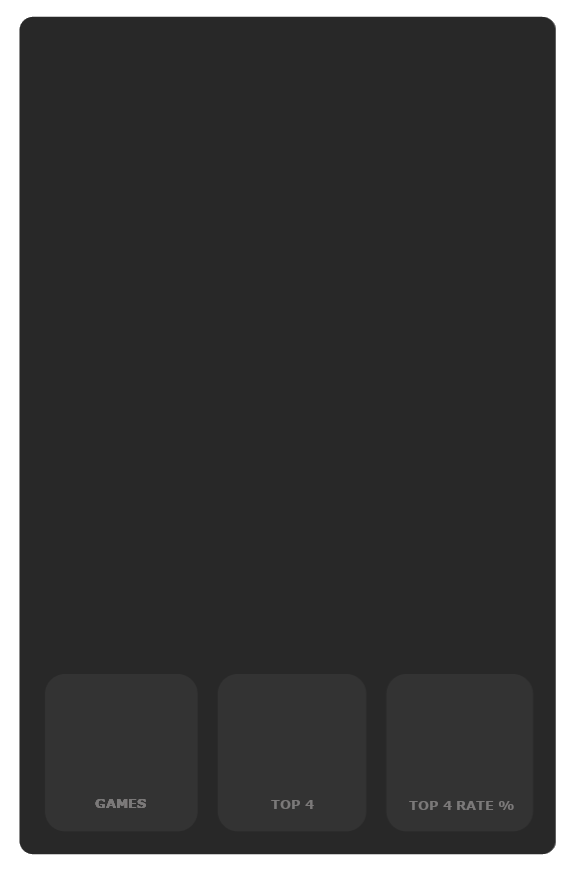
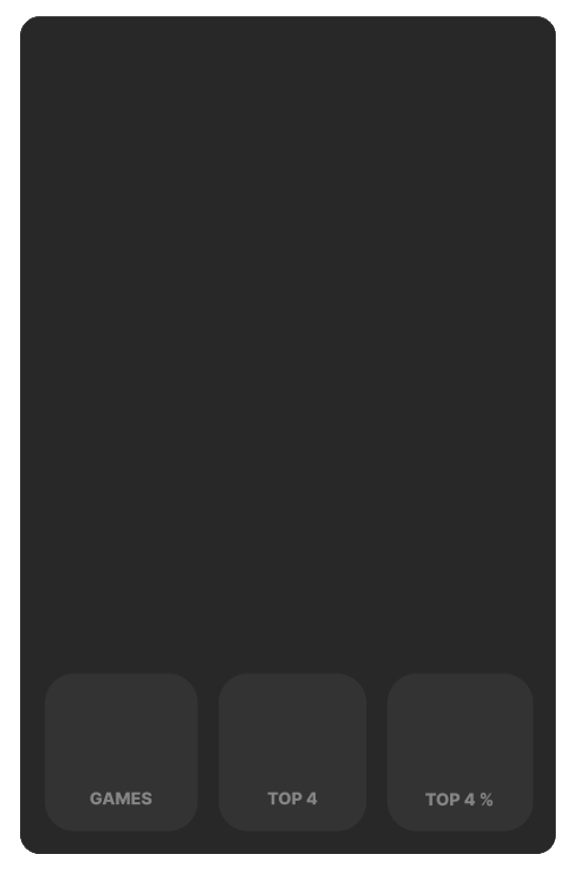
fix: round number & card template

diff --git a/main.py b/main.py
@@ -112,8 +112,6 @@ async def image(interaction, member: discord.Member):
     profile_data = 'https://euw1.api.riotgames.com/tft/league/v1/entries/by-summoner/' + id + '?api_key=' + riot_key
     res = requests.get(profile_data, timeout=127)
     user_profile = res.json()
-    print(user_data[member.id]["riot_name"])
-    print(user_profile)
     for profile in user_profile:
         if profile["queueType"] == "RANKED_TFT":
             ranked_profile = profile
@@ -123,7 +121,7 @@ async def image(interaction, member: discord.Member):
         return
     totalGame = str(ranked_profile['wins'] + ranked_profile['losses'])
     winGame = str(ranked_profile['wins'])
-    topGame = str(ranked_profile['wins'] / int(totalGame) * 100)
+    topGame = str(round(ranked_profile['wins'] / int(totalGame) * 100, 2))
     label = ImageFont.truetype("./assets/fonts/inter.ttf", 38)
     userfont = ImageFont.truetype("./assets/fonts/inter.ttf", 50)
     descfont = ImageFont.truetype("./assets/fonts/inter.ttf", 42)
@@ -334,7 +332,6 @@ async def game(interaction, member: discord.Member):
                 ]
                 players_ingame.append(temp)
 
-            print(players_ingame)
             await interaction.response.send_message(players_ingame)
 
 async def get_player_info(session, riot_key, player_id):
